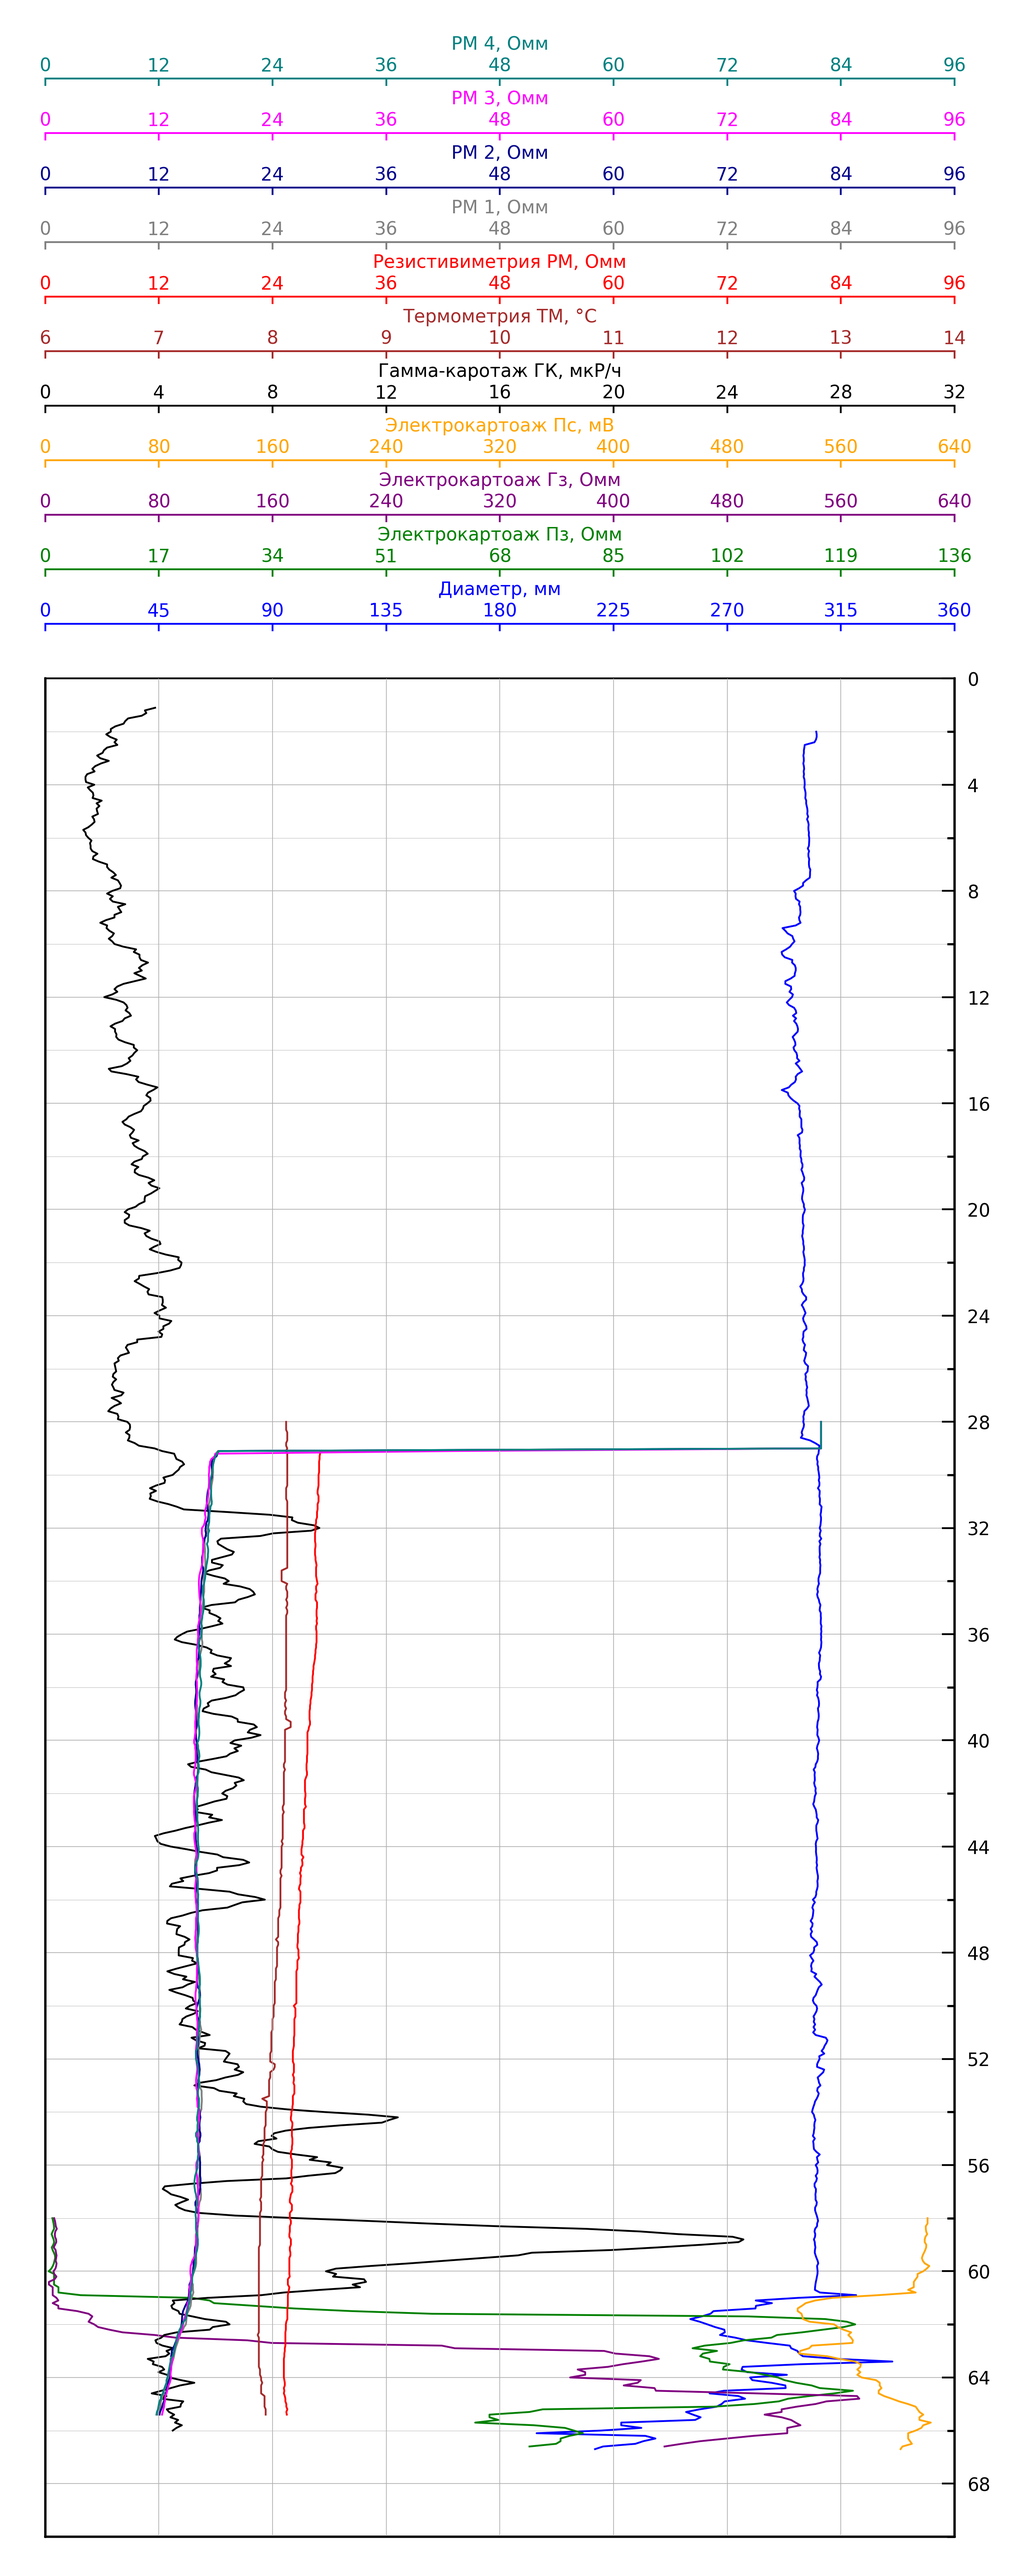
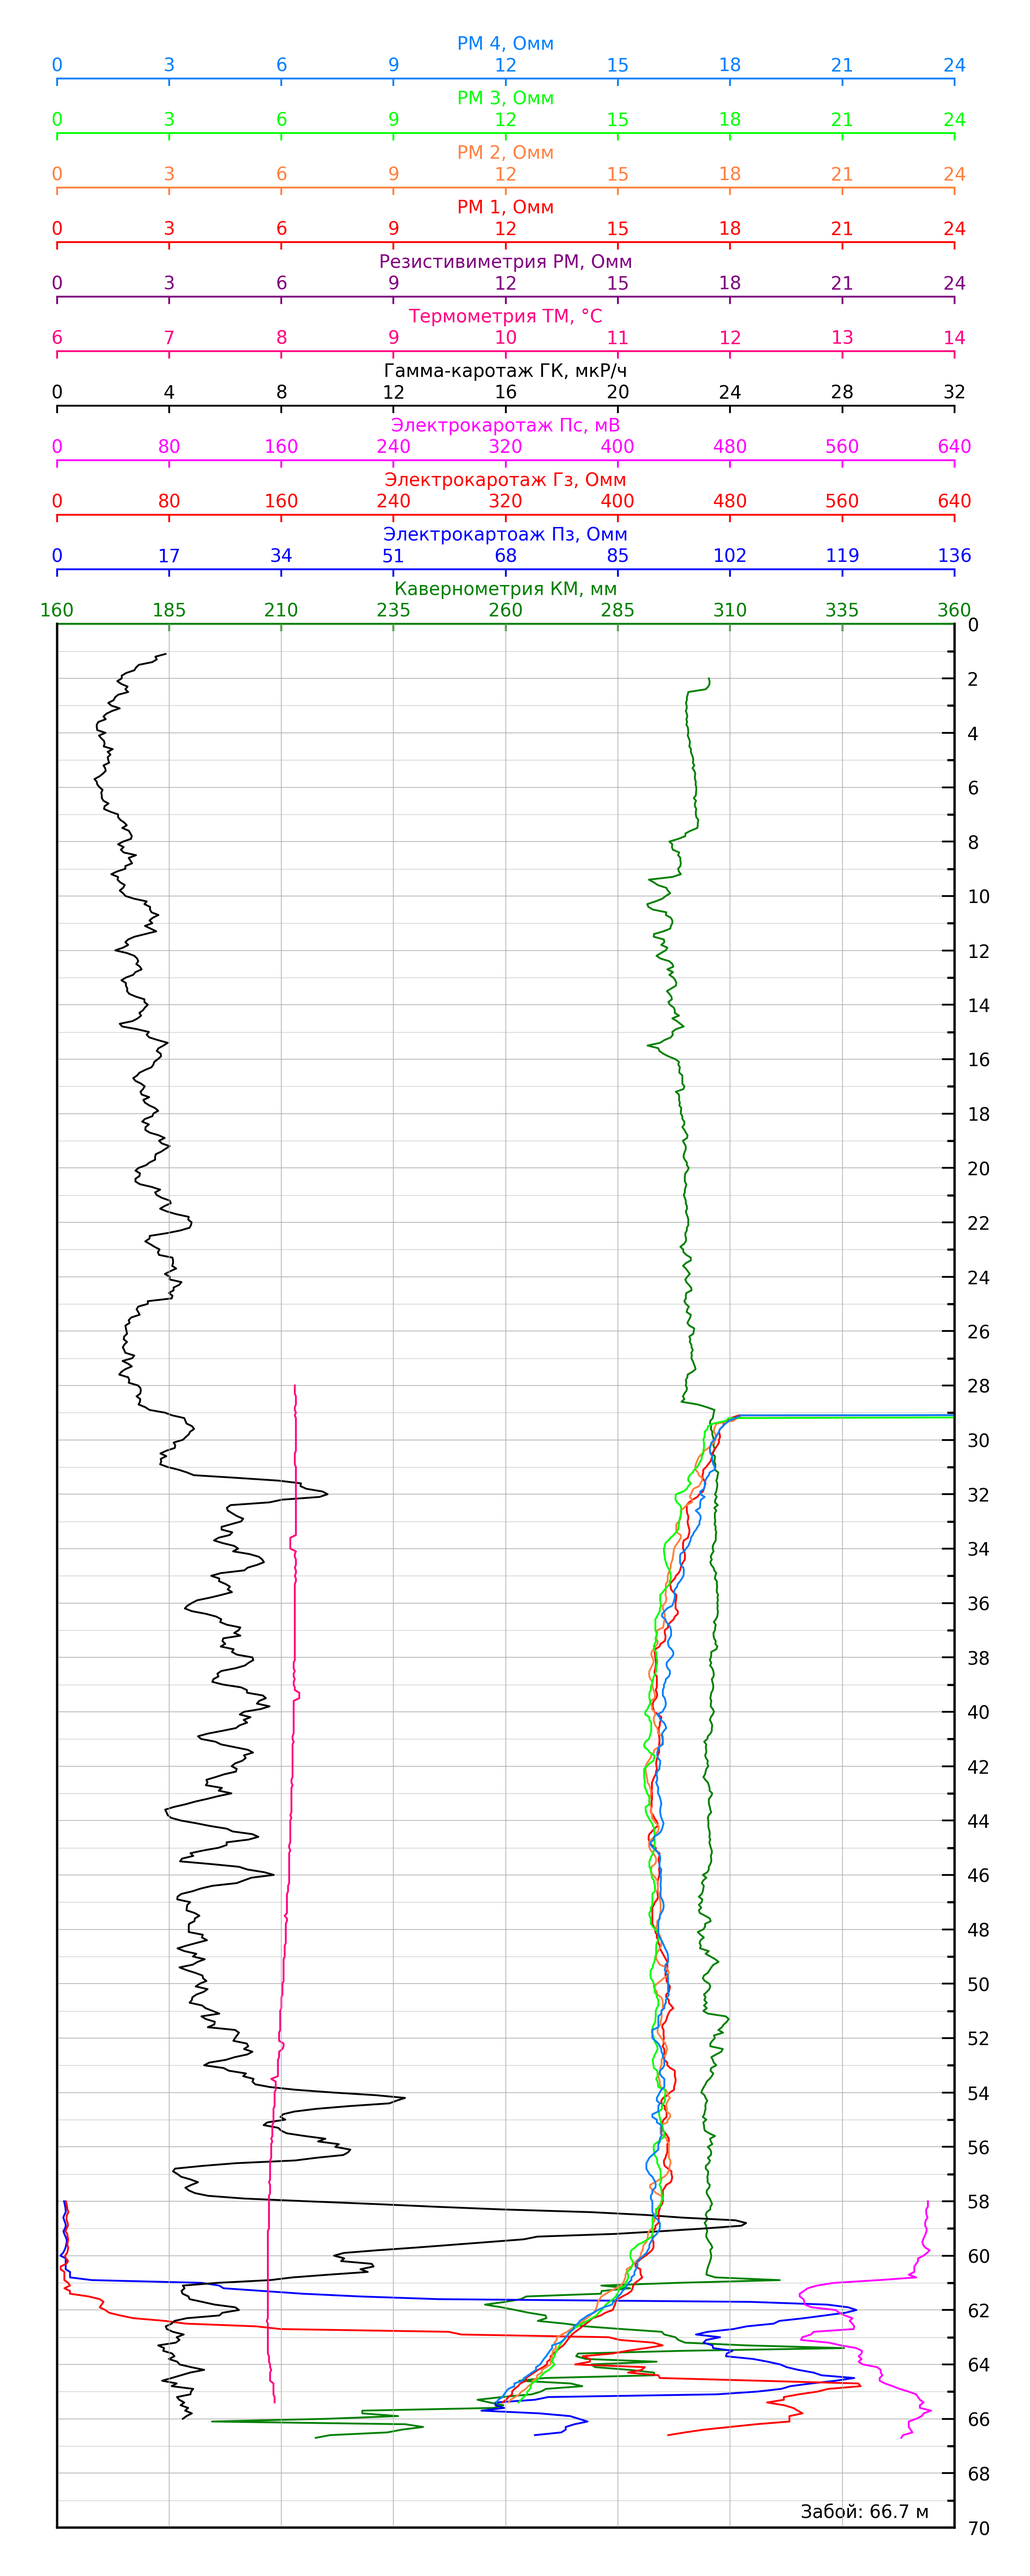
сделал геофизику красивее, автоматизировал подбор масштаба шкал

diff --git a/src/well_section_counter/geophys.py b/src/well_section_counter/geophys.py
@@ -3,35 +3,32 @@ import matplotlib.pyplot as plt
 import math
 import numpy as np
 
-# массив цветов
-colors = [
-    "None",
-    "blue",
-    "green",
-    "purple",
-    "orange",
-    "black",
-    "brown",
-    "red",
-    "gray",
-    "darkblue",
-    "magenta",
-    "teal",
-    "lime",
-    "indigo",
-    "olive",
-]
 # массив названий
 names = {
     "DEPT": "Глубина, м",
-    "D": "Диаметр, мм",
+    "D": "Кавернометрия КМ, мм",
     "PZ": "Электрокартоаж Пз, Омм",
-    "GZ": "Электрокартоаж Гз, Омм",
-    "PS": "Электрокартоаж Пс, мВ",
+    "GZ": "Электрокаротаж Гз, Омм",
+    "PS": "Электрокаротаж Пс, мВ",
     "GK": "Гамма-каротаж ГК, мкР/ч",
     "TM": "Термометрия ТМ, °С",
     "RM": "Резистивиметрия РМ, Омм",
     "KM": "Кавернометрия КМ, мм",
+}
+
+data_color_dict = {
+    "PZ": "#0000ff",
+    "GZ": "#ff0000",
+    "PS": "#ff00ff",
+    "TM": "#ff0080",
+    "RM": "#800080",
+    "RM_1": "#ff0000",
+    "RM_2": "#ff8040",
+    "RM_3": "#00ff00",
+    "RM_4": "#0080ff",
+    "GK": "#000000",
+    "KM": "#008000",
+    "D": "#008000",
 }
 
 
@@ -40,7 +37,7 @@ def lac_read(way="well_section_counter/1.las"):
     las = lasio.read(way)
     # чтение ключей из файла
     keys = las.keys()
-    print(keys)
+    # print(keys)
 
     # задание размеров рисунка в мм
     width_mm = 100
@@ -54,33 +51,76 @@ def lac_read(way="well_section_counter/1.las"):
     tick_length = 2
     # расстояние между тиком и подписью
     pad = 1
-
     # Конвертация в дюймы
     width_inch = width_mm / 25.4
     height_inch = height_mm / 25.4
-
+    # создание рисунка
     fig, ax1 = plt.subplots(figsize=(width_inch, height_inch))
 
-    # словарь метод:цвет
-    data_dict = dict(zip(keys, colors))
-    # глубина
+    # задание оси глубины
     dept = las["DEPT"]
     ax1_max_y = math.ceil((dept[-1]) / 10) * 10
     ax1.set_ylim(0, ax1_max_y)
     ax1.invert_yaxis()
+    # добавление текста с забоем скважины
+    max_dept_label = f"Забой: {max(dept)} м"
+    ax1.text(
+        0.9,
+        0.008,
+        max_dept_label,
+        ha="center",
+        va="center",
+        fontsize=axis_label_fontsize,
+        color="black",
+        transform=ax1.transAxes,
+    )
+    # отдельный цикл для задания границ горизонтальных осей для всех RM (у них должен быть единый масштаб, так что вынес отдельно)
+    rm_data = []
+    for key in keys:
+        if key.startswith("RM"):
+            data = las[key]
+            valid_data = data[~np.isnan(data)]
+            rm_data.extend(valid_data)
+    if "RM" in keys:
+        # Преобразуем в массив NumPy для удобства работы
+        rm_data = np.array(rm_data)
+        # Получаем среднее для всех RM
+        mean = np.mean(rm_data)
+        # Задаем отклонение в 10% от среднего значения
+        threshold = 0.1 * mean
+        # Фильтруем данные в стороны от среднего
+        filtered_rm_data = rm_data[
+            (rm_data >= mean - threshold) & (rm_data <= mean + threshold)
+        ]
+        # Задаем границы для горизонтальных осей для RM
+        rm_min = 0
+        rm_max = math.ceil(max(filtered_rm_data + 1) / 10) * 10
+        # расчитываем расположение уровня ПВ - пока не работает
+        data = las["RM"]
+        valid_data = data[~np.isnan(data)]
+        target_depth = np.interp(max(valid_data), las["RM"], las["DEPT"])
+        print(max(valid_data))
+        print(target_depth)
     # смещение осей
     offset = 0
-
-    for key, color in data_dict.items():
+    # цикл построения параметров
+    for key in keys:
+        if key == "DEPT":
+            color = "None"
+        else:
+            color = data_color_dict[key]
+        # получаем данные по ключам
         data = las[key]
         valid_data = data[~np.isnan(data)]
         ax = ax1.twiny()
         ax.plot(data, dept, color=color, label=key, linewidth=line)
-        print(key)
         ax_min = min(valid_data)
         ax_max = max(valid_data)
         # выбор границы шкал для параметров
-        if ax_max <= 20:
+        if key.startswith("RM"):
+            ax_max = rm_max
+            ax_min = rm_min
+        elif ax_max <= 20:
             ax_max = math.ceil((ax_max + 1) / 2) * 2
             ax_min = math.floor((ax_min) / 2) * 2
             step = 2
@@ -98,15 +138,15 @@ def lac_read(way="well_section_counter/1.las"):
             step = 6
         elif ax_max <= 200:
             ax_max = math.ceil((ax_max + 2) / 20) * 20
-            ax_min = 0
+            ax_min = math.floor((ax_min - 2) / 20) * 20
             step = 8
         elif ax_max <= 300:
             ax_max = math.ceil((ax_max + 2) / 30) * 30
-            ax_min = 0
+            ax_min = math.floor((ax_min - 2) / 30) * 30
             step = 10
         elif ax_max <= 400:
             ax_max = math.ceil((ax_max + 2) / 40) * 40
-            ax_min = 0
+            ax_min = math.floor((ax_min - 2) / 40) * 40
             step = 12
         elif ax_max <= 500:
             ax_max = math.ceil((ax_max + 2) / 50) * 50
@@ -129,7 +169,6 @@ def lac_read(way="well_section_counter/1.las"):
         ax.set_xlim(ax_min, ax_max)
         # выбор количества тиков по шкалам
         tick_step = (ax_max - ax_min) // num_ticks
-        # print(ax_max, ax_min, tick_step)
         if tick_step == 0:
             tick_step = 1
         ax.xaxis.set_ticks(range(ax_min, ax_max + 1, tick_step))
@@ -142,7 +181,6 @@ def lac_read(way="well_section_counter/1.las"):
                 label_name = names[key]
             elif key.startswith("RM"):
                 label_name = "РМ "
-                print(key[-1])
                 if key[-1].isdigit():
                     label_name += f'{key[-1] + ", Омм"}'
             else:
@@ -163,7 +201,11 @@ def lac_read(way="well_section_counter/1.las"):
         ax.spines["bottom"].set_linewidth(0.5)
         ax.spines["left"].set_linewidth(0.5)
         ax.spines["right"].set_linewidth(0.5)
-        offset += 15
+        # Дополнение к смещеню горизонтальных осей
+        if key == "DEPT":
+            offset += 0
+        else:
+            offset += 15
     # параметры вертикальной оси
     ax.grid(True, linewidth=0.2)
     ax1.grid(True, linewidth=0.2)
@@ -189,7 +231,11 @@ def lac_read(way="well_section_counter/1.las"):
     ax1.spines["right"].set_linewidth(0.5)
     ax1.tick_params(width=0.5)
     # сохранение изображения
-    fig.savefig("well_section_counter/log.png", dpi=600, orientation="portrait")
+    fig.savefig(
+        "well_section_counter/log.png",
+        dpi=600,
+        orientation="portrait",
+    )
 
 
 lac_read()
